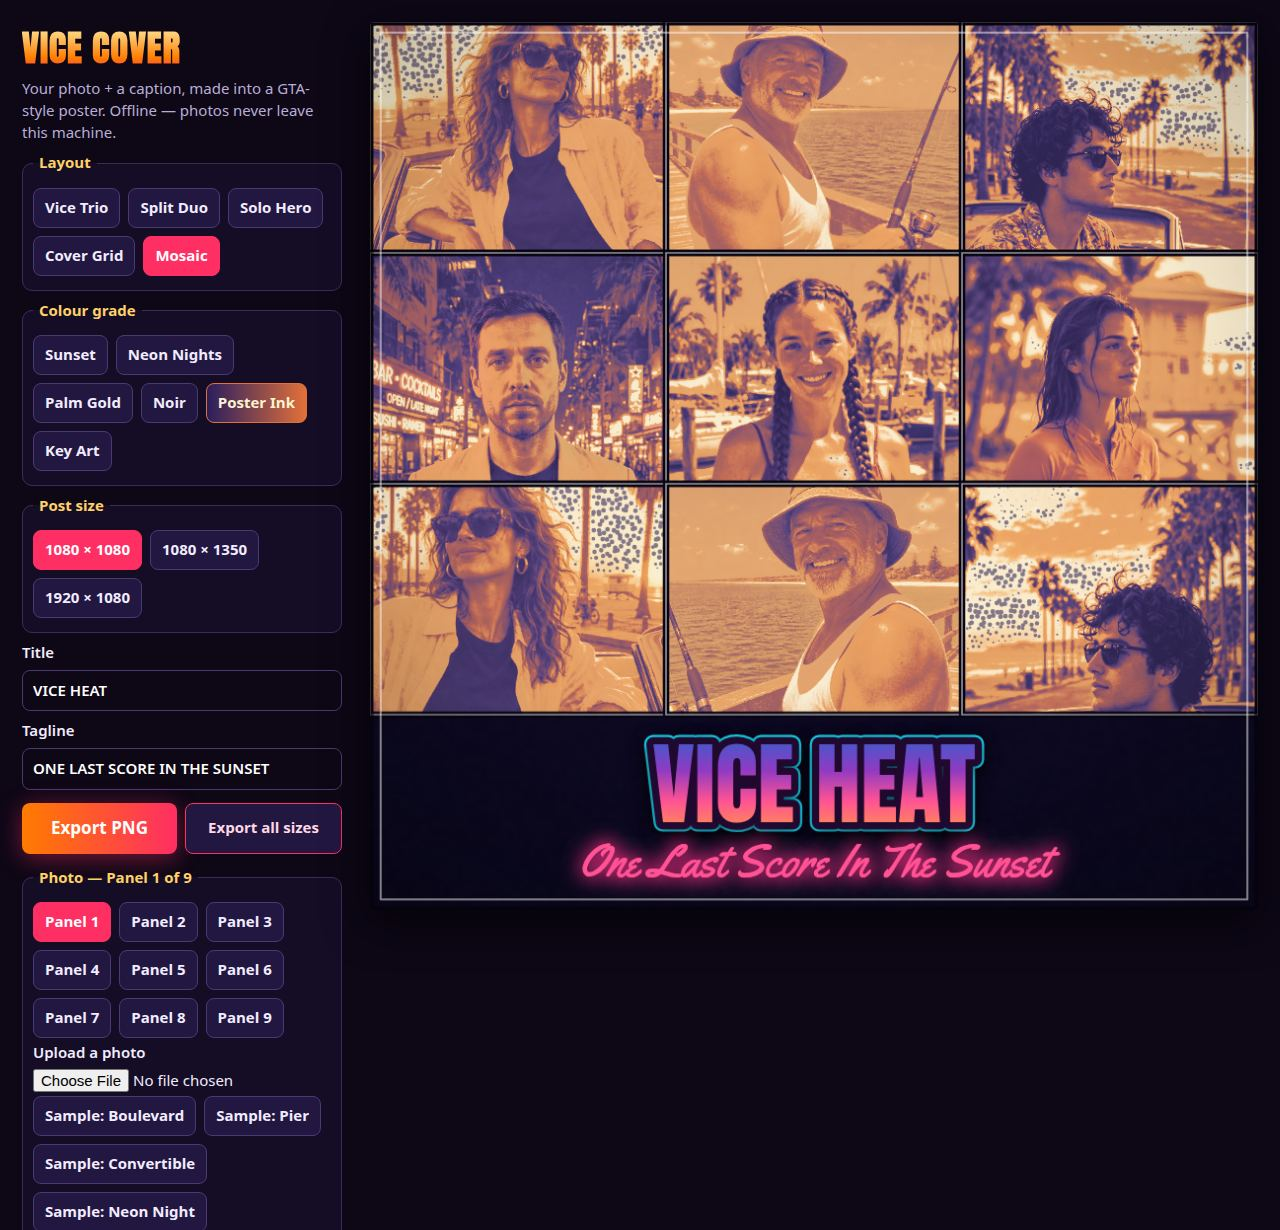
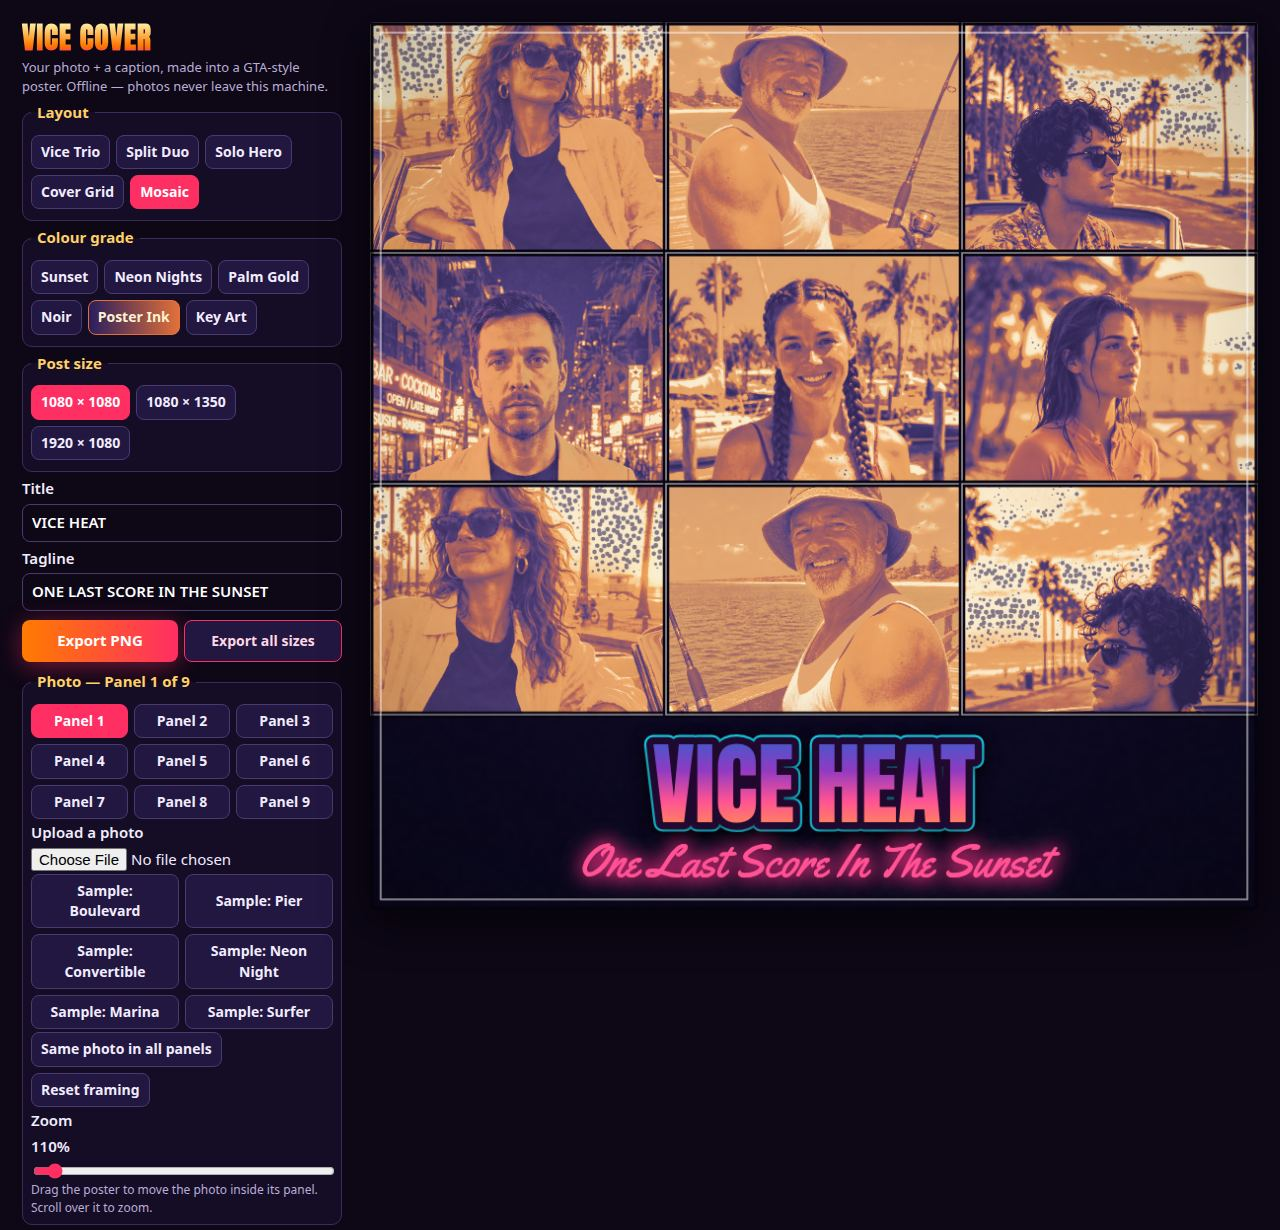
Key Art becomes the face of the set: lead cover is now the Key Art Grid (all five panels painted; Sunset stays in the app), the ink gains a second coat reserved for the strongest contours (measured Sobel ridge band 0.38-0.48 at full strength over the soft coat, so hair/jaw/clothing/palm outlines rea

Changed region(s): [[0.0, 0.0, 0.2812, 1.0]]

diff --git a/app/src/poster.js b/app/src/poster.js
@@ -164,7 +164,13 @@ export const GRADES = {
     // horizon — in a warm dark plum-brown, with alpha proportional to
     // edge strength; the softened base has already dissolved skin
     // texture, and the high threshold keeps the ink off faces, whose
-    // shading gradients stay far below it. A fine paper grain finishes
+    // shading gradients stay far below it. The ink is laid in TWO
+    // tiers: the soft pass above, whose alpha tops out well under
+    // full strength, and a second coat reserved for the strongest
+    // contours (edgeStrong*), which brings those outlines close to
+    // full ink so the drawn contour actually reads at full-frame
+    // scale — a single soft coat left the silhouettes as little more
+    // than a darker shading gradient. A fine paper grain finishes
     // the panel. The auto-exposure lift applies as in every grade.
     label: 'Key Art',
     sky: ['#2b1055', '#7597de'],
@@ -181,6 +187,7 @@ export const GRADES = {
       scale: 0.45, passes: 3,
       edgeScale: 0.25, edgeLo: 0.3, edgeHi: 0.58,
       ink: [46, 20, 44], inkAlpha: 0.66,
+      edgeStrongLo: 0.38, edgeStrongHi: 0.48, inkAlphaStrong: 1,
     },
     accent: '#ff2e63',
     tagText: '#1c0b3d',
@@ -617,13 +624,21 @@ function softenBase(ctx, cw, ch, scale, passes) {
  *  their lifted strength), computed at the painterly edge resolution —
  *  a quarter of the panel — and returned as a small ink canvas to be
  *  drawn back up over the graded paint; the upscaling softens the ink
- *  into brush-width lines. Only strong edges are inked: alpha is zero
- *  below `edgeLo` of the normalized gradient magnitude and ramps to
- *  `inkAlpha` at `edgeHi`. Because the base was softened first, skin
- *  carries no texture edges at all, and a face's own shading gradients
- *  (cheek, brow) sit far below the threshold — what clears it is the
- *  drawn outline of things: hair and jaw silhouettes, hat brims,
- *  clothing folds, palm fronds, the sea's horizon. */
+ *  into brush-width lines. The ink is two-tiered. The SOFT tier inks
+ *  only strong edges: alpha is zero below `edgeLo` of the normalized
+ *  gradient magnitude and ramps to `inkAlpha` at `edgeHi`. Because the
+ *  base was softened first, skin carries no texture edges at all, and a
+ *  face's own shading gradients (cheek, brow) sit far below the
+ *  threshold — what clears it is the drawn outline of things: hair and
+ *  jaw silhouettes, hat brims, clothing folds, palm fronds, the sea's
+ *  horizon. The STRONG tier is a second coat over the same ink colour,
+ *  reserved for the strongest contours of all: it starts far above the
+ *  soft tier's floor (`edgeStrongLo`) and ramps to `inkAlphaStrong`,
+ *  composited over the soft alpha, so a true silhouette — hair against
+ *  sky, a jaw against a neck, a palm frond against the sunset — lands
+ *  close to full-strength ink and the contour reads as drawn at
+ *  full-frame scale, while face shading, which never reaches even the
+ *  soft floor, stays untouched by either coat. */
 function painterlyInkCanvas(px, cw, ch, expo, p) {
   const es = p.edgeScale;
   const ew = Math.max(2, Math.floor(cw * es));
@@ -663,7 +678,14 @@ function painterlyInkCanvas(px, cw, ch, expo, p) {
       const gy = (lum[yp * ew + xm] + 2 * lum[yp * ew + x] + lum[yp * ew + xp])
         - (lum[ym * ew + xm] + 2 * lum[ym * ew + x] + lum[ym * ew + xp]);
       const mag = Math.sqrt(gx * gx + gy * gy) / 1020;
-      const a = smoothstep(p.edgeLo, p.edgeHi, mag) * p.inkAlpha;
+      const aSoft = smoothstep(p.edgeLo, p.edgeHi, mag) * p.inkAlpha;
+      const aStrong = p.edgeStrongHi
+        ? smoothstep(p.edgeStrongLo, p.edgeStrongHi, mag) * p.inkAlphaStrong
+        : 0;
+      // The strong coat composites OVER the soft one (source-over), so
+      // the strongest contours approach full ink without the two
+      // alphas ever summing past it.
+      const a = aSoft + aStrong * (1 - aSoft);
       if (a <= 0.004) continue;
       const o = (y * ew + x) * 4;
       od[o] = ir;

diff --git a/app/style.css b/app/style.css
@@ -25,35 +25,42 @@ html, body { margin: 0; min-height: 100%; background: #0d0716; color: #f2ecff; f
 
 .app { display: flex; gap: 28px; align-items: flex-start; justify-content: center; min-height: 100vh; padding: 22px; }
 
-.controls { display: flex; flex-direction: column; gap: 9px; width: 320px; flex: none; }
+.controls { display: flex; flex-direction: column; gap: 6px; width: 320px; flex: none; }
 .controls h1 {
   margin: 0;
   font-family: 'Anton', 'Arial Black', sans-serif;
-  font-size: 36px;
+  font-size: 29px;
+  line-height: 1.15;
   letter-spacing: 1px;
   background: linear-gradient(180deg, #fff7ae, #ff7b00 70%, #ff2e63);
   -webkit-background-clip: text;
   background-clip: text;
   color: transparent;
 }
-.sub { margin: 4px 0 0; color: #b9aed6; }
+.sub { margin: 3px 0 0; color: #b9aed6; font-size: 13px; }
 .fine { margin: 0; color: #8d83a8; font-size: 12px; }
-.hint { margin: 0; color: #b9aed6; font-size: 13px; }
+.hint { margin: 0; color: #b9aed6; font-size: 12px; }
 
-fieldset { margin: 0; padding: 10px; border: 1px solid #3a2d5c; border-radius: 10px; background: #150d26; }
+fieldset { margin: 0; padding: 8px; border: 1px solid #3a2d5c; border-radius: 10px; background: #150d26; }
 legend { padding: 0 6px; font-weight: 700; color: #ffd166; }
-.row { display: flex; flex-wrap: wrap; gap: 8px; margin: 4px 0; }
+.row { display: flex; flex-wrap: wrap; gap: 6px; margin: 3px 0; }
+/* Compact button grids: the panel picker always shows three buttons per
+   row (so Mosaic's nine picks take exactly three rows) and the sample
+   buttons pair up, keeping the whole control column — framing controls
+   included — inside one screen height. */
+#panelPicks .panel-pick { flex: 1 1 30%; }
+[data-sample] { flex: 1 1 44%; }
 
-label { display: flex; flex-direction: column; gap: 6px; font-weight: 600; }
+label { display: flex; flex-direction: column; gap: 4px; font-weight: 600; }
 input[type=text] {
-  font: inherit; padding: 9px 10px; border: 1px solid #4a3a72; border-radius: 8px;
+  font: inherit; padding: 7px 9px; border: 1px solid #4a3a72; border-radius: 8px;
   background: #0d0716; color: #fff;
 }
 input[type=text]:focus, button:focus-visible, input[type=file]:focus-visible { outline: 2px solid #00f5ff; outline-offset: 2px; }
 input[type=range] { width: 100%; accent-color: #ff2e63; }
 
 button {
-  font: inherit; font-weight: 700; padding: 8px 11px; border: 1px solid #4a3a72; border-radius: 8px;
+  font: inherit; font-size: 14px; font-weight: 700; padding: 6px 9px; border: 1px solid #4a3a72; border-radius: 8px;
   background: #221741; color: #f2ecff; cursor: pointer;
 }
 button:hover { border-color: #ff2e63; }
@@ -71,12 +78,12 @@ input[type=file] { font: inherit; font-weight: 400; }
 
 button.export {
   flex: 1;
-  padding: 13px; font-size: 17px; background: linear-gradient(90deg, #ff7b00, #ff2e63);
+  padding: 10px; font-size: 15px; background: linear-gradient(90deg, #ff7b00, #ff2e63);
   border: 0; color: #fff; box-shadow: 0 4px 24px rgba(255, 46, 99, 0.45);
 }
 button.export.alt {
   background: #221741; border: 1px solid #ff2e63; color: #ffd7e6;
-  box-shadow: none; font-size: 15px;
+  box-shadow: none; font-size: 14px;
 }
 button.export:hover { filter: brightness(1.1); }
 

diff --git a/main.ts b/main.ts
@@ -12,7 +12,10 @@
 // lettering sits in a title band below its nine panels), a colour grade
 // (Sunset, Neon Nights, Palm Gold, Noir, Poster Ink — all gradient-mapped,
 // Poster Ink with a highlight-masked halftone, Noir with an ordered Bayer
-// dither through its posterize) and a post size, type a title
+// dither through its posterize — and Key Art, which paints instead of
+// grading: an edge-aware softened base, an eight-band cel ramp and two
+// coats of drawn Sobel ink contours, the second reserved for the strongest
+// edges) and a post size, type a title
 // and a tagline, and export a PNG (one size, or all three at once).
 // Its six sample photos (app/samples/) were made for make.fun with an
 // image model and are free to use: three bright Vice scenes, one neon

diff --git a/README.md b/README.md
@@ -4,7 +4,7 @@
 [![rank](https://make.fun/badge/gta6-cover-art-01/cleoworks/gta6-cover-art/rank.svg)](https://make.fun/bounty/gta6-cover-art-01/leaderboard?utm_source=github&utm_medium=readme&utm_campaign=gta6-cover-art-01)
 [![reward](https://make.fun/badge/gta6-cover-art-01/cleoworks/gta6-cover-art/reward.svg)](https://make.fun/bounty/gta6-cover-art-01?utm_source=github&utm_medium=readme&utm_campaign=gta6-cover-art-01)
 
-VICE COVER turns your photos and a caption into GTA 6-style poster cover art: multi-panel layouts (Vice Trio, Split Duo, Solo Hero, a five-panel Cover Grid with one hero panel and four satellites, and Mosaic — a nine-panel 3×3 grid in the classic cover pattern whose lettering sits in a title band below the grid, so all nine panels stay fully visible), a sunset-gradient title with a double outline (a polished chrome gradient in Noir), a neon script tagline, and six colour grades (Sunset, Neon, Palm Gold, Noir, Poster Ink — a bold screen-print duotone with a firmer posterize and a jittered halftone dot screen that lives in smooth highlights — sky, sea, glint — and fades out over detailed texture (fabric, hair) and off bright neutral surfaces like white clothing entirely, never on faces — and Key Art, the painted class described below), all but Key Art applied as true gradient maps with a light cel-shade posterize. Noir and Poster Ink carry shadow protection: through the shadows their ramps cross-fade to an un-posterized gradient map, so a face sitting in shade — or a whole photo taken at night — keeps its features instead of collapsing into one flat tone; Noir additionally runs an ordered Bayer dither through its posterize, breaking the flat grey plateaus a B/W quantization leaves on faces into a fine print texture that restores their tonal modelling. Key Art paints instead of grading: the photo is first softened on an edge-aware base (repeated downscale–upscale rounds dissolve photographic micro-detail and skin texture while the big shapes and hard contours survive), then mapped through a warm sunset-family ramp posterized to eight cel bands whose transitions are smoothstepped — colour areas read as flat, graded brush strokes — with shadow protection like Noir's, and finished with drawn ink contours: a Sobel pass over the softened base, computed at quarter resolution, inks only the strong edges (hair and jaw silhouettes, hat brims, clothing folds, palm fronds, the horizon) in a warm dark plum-brown with alpha proportional to edge strength, so the outlines read as drawn while faces — whose shading gradients sit far below the ink threshold — stay clean, under a fine paper grain. An automatic exposure lift steadies dark photos before grading (measured on the photo's mean luminance; bright photos pass through completely untouched, genuinely very dark photos get a substantially stronger lift whose highlight shoulder keeps lit neon signs separated instead of blown out, and night shots still look like night). Where a layout has more panels than loaded photos, a photo's later showings are mirrored and re-cropped, so a repeat reads as a different moment of the same shoot rather than a copy-paste. Six bundled sample photos (three bright Vice scenes, a neon night portrait, a marina portrait in a red dress and a surfer carrying her board at golden hour) show the range; drop in any photos of your own, drag to crop each panel, pick a post size (square, portrait or landscape), and export a share-ready PNG — one size, or all three sizes at once. Everything runs locally in the browser — your photos never leave your machine, and the app works fully offline with no network calls and no Rockstar artwork, logos or fonts.
+VICE COVER turns your photos and a caption into GTA 6-style poster cover art: multi-panel layouts (Vice Trio, Split Duo, Solo Hero, a five-panel Cover Grid with one hero panel and four satellites, and Mosaic — a nine-panel 3×3 grid in the classic cover pattern whose lettering sits in a title band below the grid, so all nine panels stay fully visible), a sunset-gradient title with a double outline (a polished chrome gradient in Noir), a neon script tagline, and six colour grades (Sunset, Neon, Palm Gold, Noir, Poster Ink — a bold screen-print duotone with a firmer posterize and a jittered halftone dot screen that lives in smooth highlights — sky, sea, glint — and fades out over detailed texture (fabric, hair) and off bright neutral surfaces like white clothing entirely, never on faces — and Key Art, the painted class described below), all but Key Art applied as true gradient maps with a light cel-shade posterize. Noir and Poster Ink carry shadow protection: through the shadows their ramps cross-fade to an un-posterized gradient map, so a face sitting in shade — or a whole photo taken at night — keeps its features instead of collapsing into one flat tone; Noir additionally runs an ordered Bayer dither through its posterize, breaking the flat grey plateaus a B/W quantization leaves on faces into a fine print texture that restores their tonal modelling. Key Art paints instead of grading: the photo is first softened on an edge-aware base (repeated downscale–upscale rounds dissolve photographic micro-detail and skin texture while the big shapes and hard contours survive), then mapped through a warm sunset-family ramp posterized to eight cel bands whose transitions are smoothstepped — colour areas read as flat, graded brush strokes — with shadow protection like Noir's, and finished with drawn ink contours: a Sobel pass over the softened base, computed at quarter resolution, inks the strong edges (hair and jaw silhouettes, hat brims, clothing folds, palm fronds, the horizon) in a warm dark plum-brown in two coats — a soft coat whose alpha follows edge strength, plus a second, near-full-strength coat reserved for the strongest contours alone — so the outlines read as drawn at full-frame scale while faces — whose shading gradients sit far below both ink thresholds — stay clean, under a fine paper grain. An automatic exposure lift steadies dark photos before grading (measured on the photo's mean luminance; bright photos pass through completely untouched, genuinely very dark photos get a substantially stronger lift whose highlight shoulder keeps lit neon signs separated instead of blown out, and night shots still look like night). Where a layout has more panels than loaded photos, a photo's later showings are mirrored and re-cropped, so a repeat reads as a different moment of the same shoot rather than a copy-paste. Six bundled sample photos (three bright Vice scenes, a neon night portrait, a marina portrait in a red dress and a surfer carrying her board at golden hour) show the range; drop in any photos of your own, drag to crop each panel, pick a post size (square, portrait or landscape), and export a share-ready PNG — one size, or all three sizes at once. Everything runs locally in the browser — your photos never leave your machine, and the app works fully offline with no network calls and no Rockstar artwork, logos or fonts.
 
 Open `app/index.html` in a browser to use it.
 
